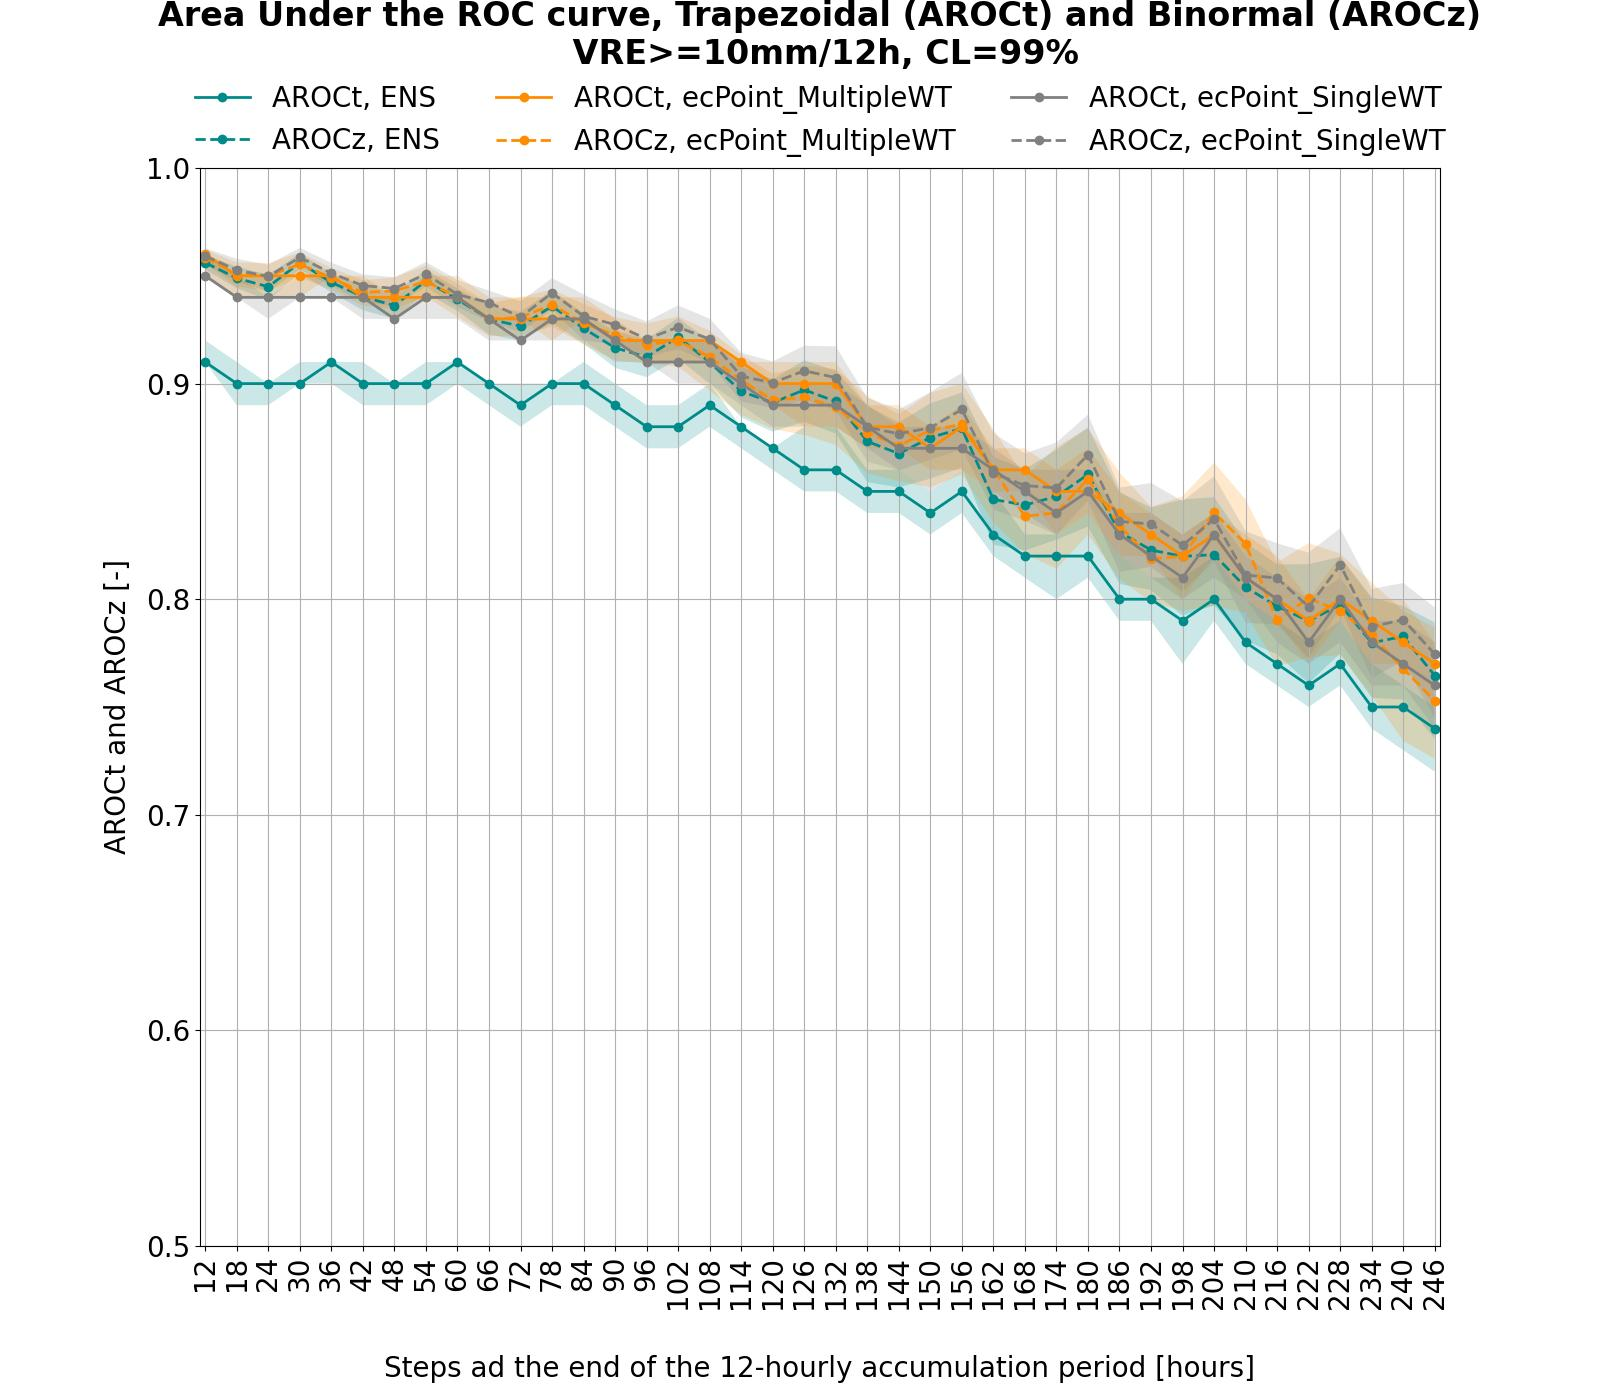
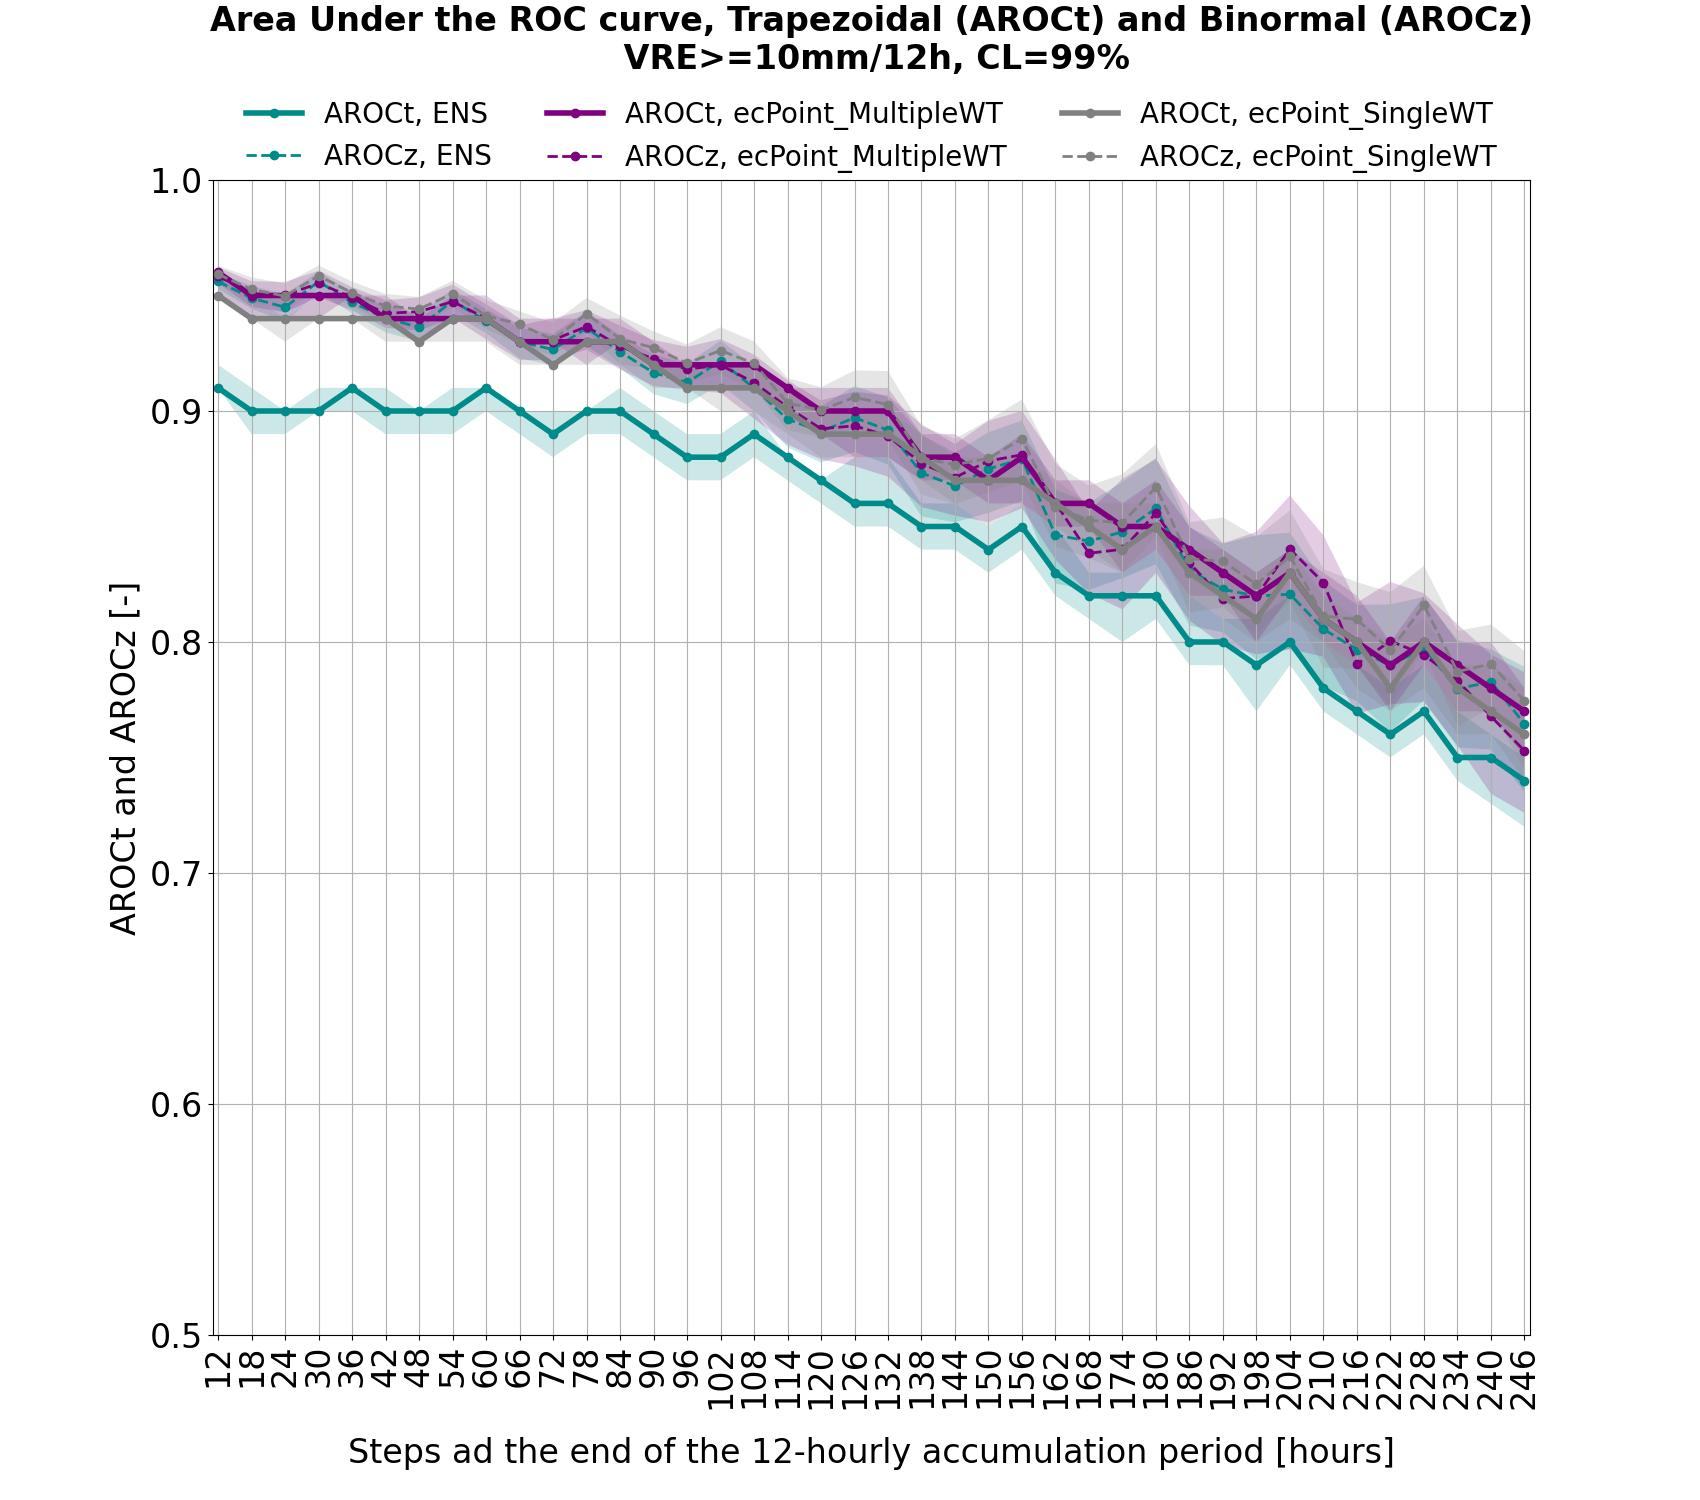
Improved the readibility of the AROC and BSrel plots.

diff --git a/Scripts/Processed/06_Plot_BSrel_CI.py b/Scripts/Processed/06_Plot_BSrel_CI.py
@@ -1,6 +1,7 @@
 import os
 import numpy as np
 import matplotlib.pyplot as plt
+from matplotlib.ticker import ScalarFormatter
 
 ########################################################################################
 # CODE DESCRIPTION
@@ -23,18 +24,22 @@ Acc = 12
 VRE_list = [0.2, 10, 25, 50]
 CL = 99
 SystemFC_list = ["ENS", "ecPoint_MultipleWT", "ecPoint_SingleWT"]
-Colour_SystemFC_list = ["darkcyan", "darkorange", "grey"]
+Colour_SystemFC_list = ["darkcyan", "purple", "grey"]
 Git_repo = "/ec/vol/ecpoint_dev/mofp/Papers_2_Write/ECMWF_TM_Verif_ecPoint_SingleWT"
 DirIN = "Data/Compute/03_BSrel_AROCt_AROCz_BS"
 DirOUT = "Data/Plot/06_BSrel_CI"
 ########################################################################################
 
+# Defining the way to plot the y-axis in the BSrel plots
+class ScalarFormatterClass(ScalarFormatter):
+   def _set_format(self):
+      self.format = "%1.1f"
 
 # Plotting the BSrel values for a specific vre
 for vre in VRE_list:
 
       # Setting the figure
-      fig, ax = plt.subplots(figsize=(16, 13))
+      fig, ax = plt.subplots(figsize=(17, 13))
       
       # Plotting the BSrel values for a specific forecasting system
       for indSystemFC in range(len(SystemFC_list)):
@@ -56,20 +61,23 @@ for vre in VRE_list:
             CI_upper = np.nanpercentile(bsrel_BS, 100 - (alpha/2), axis=1)
 
             # Plotting the BSrel values
-            ax.plot(StepF, bsrel_real, "o-", color=Colour_SystemFC, label=SystemFC, linewidth=2)
+            ax.plot(StepF, bsrel_real, "o-", color=Colour_SystemFC, label=SystemFC, linewidth=4)
             ax.fill_between(StepF, CI_lower, CI_upper, color=Colour_SystemFC, alpha=0.2, edgecolor="none")
 
       # Setting the BSrel plot metadata
       DiscStep = ((StepF[-1] - StepF[0]) / (len(StepF)-1))
       ax.set_title("Brier Score - Reliability Component (BSrel)\n VRE>=" + str(vre) + "mm/" + str(Acc) + "h, CL=" + str(CL) + "%\n ", fontsize=24, pad=20, weight="bold")
-      ax.set_xlabel("Steps ad the end of the " + str(Acc) + "-hourly accumulation period [hours]", fontsize=20, labelpad=20)
-      ax.set_ylabel("BSrel [-]", fontsize=20, labelpad=10)
+      ax.set_xlabel("Steps ad the end of the " + str(Acc) + "-hourly accumulation period [hours]", fontsize=24, labelpad=20)
+      ax.set_ylabel("BSrel [-]", fontsize=24, labelpad=10)
+      yScalarFormatter = ScalarFormatterClass(useMathText=True)
+      yScalarFormatter.set_powerlimits((0,0))
+      ax.yaxis.set_major_formatter(yScalarFormatter)
       ax.set_xlim([StepF[0]-1, StepF[-1]+1])
       ax.set_xticks(np.arange(StepF[0], (StepF[-1]+1), DiscStep))
-      ax.xaxis.set_tick_params(labelsize=20, rotation=90)
-      ax.yaxis.set_tick_params(labelsize=20)
+      ax.xaxis.set_tick_params(labelsize=24, rotation=90)
+      ax.yaxis.set_tick_params(labelsize=24)
       ax.legend(loc="upper center", bbox_to_anchor=(0.5, 1.06), ncol=3, fontsize=20, frameon=False)
-      ax.grid()
+      ax.grid(linewidth=0.5)
 
       # Saving the BSrel plot
       DirOUT_temp= Git_repo + "/" + DirOUT + "/" + f"{Acc:02d}" + "h"

diff --git a/Scripts/Processed/07_Plot_AROCt_AROCz_CI.py b/Scripts/Processed/07_Plot_AROCt_AROCz_CI.py
@@ -23,7 +23,7 @@ Acc = 12
 VRE_list = [0.2, 10, 25, 50]
 CL = 99
 SystemFC_list = ["ENS", "ecPoint_MultipleWT", "ecPoint_SingleWT"]
-Colour_SystemFC_list = ["darkcyan", "darkorange", "grey"]
+Colour_SystemFC_list = ["darkcyan", "purple", "gray"]
 Git_repo = "/ec/vol/ecpoint_dev/mofp/Papers_2_Write/ECMWF_TM_Verif_ecPoint_SingleWT"
 DirIN = "Data/Compute/03_BSrel_AROCt_AROCz_BS"
 DirOUT = "Data/Plot/07_AROCt_AROCz_CI"
@@ -34,7 +34,7 @@ DirOUT = "Data/Plot/07_AROCt_AROCz_CI"
 for vre in VRE_list:
 
       # Setting the figure
-      fig, ax = plt.subplots(figsize=(16, 14))
+      fig, ax = plt.subplots(figsize=(17, 15))
       
       # Plotting the AROCt and AROCz values for a specific forecasting system
       for indSystemFC in range(len(SystemFC_list)):
@@ -67,23 +67,23 @@ for vre in VRE_list:
             CIz_upper = np.nanpercentile(arocz_BS, 100 - (alpha/2), axis=1)
 
             # Plotting the AROCt and AROCz values with their CI
-            ax.plot(StepF, aroc, "o-", color=Colour_SystemFC, label="AROCt, " + SystemFC, linewidth=2)
+            ax.plot(StepF, aroc, "o-", color=Colour_SystemFC, label="AROCt, " + SystemFC, linewidth=4)
             ax.plot(StepF, arocz, "o--", color=Colour_SystemFC, label="AROCz, " + SystemFC, linewidth=2)
             ax.fill_between(StepF, CI_lower, CI_upper, color=Colour_SystemFC, alpha=0.2, edgecolor="none")
             ax.fill_between(StepF, CIz_lower, CIz_upper, color=Colour_SystemFC, alpha=0.2, edgecolor="none")
 
       # Completing the AROCt and AROCz plots
       DiscStep = ((StepF[-1] - StepF[0]) / (len(StepF)-1))
-      ax.set_title("Area Under the ROC curve, Trapezoidal (AROCt) and Binormal (AROCz)\n VRE>=" + str(vre) + "mm/" + str(Acc) + "h, CL=" + str(CL) + "%\n \n ", fontsize=24, pad=20, weight="bold")
-      ax.set_xlabel(" \nSteps ad the end of the " + str(Acc) + "-hourly accumulation period [hours]", fontsize=20, labelpad=10)
-      ax.set_ylabel("AROCt and AROCz [-]", fontsize=20, labelpad=10)
+      ax.set_title("Area Under the ROC curve, Trapezoidal (AROCt) and Binormal (AROCz)\n VRE>=" + str(vre) + "mm/" + str(Acc) + "h, CL=" + str(CL) + "%\n \n ", fontsize=24, pad=25, weight="bold")
+      ax.set_xlabel("Steps ad the end of the " + str(Acc) + "-hourly accumulation period [hours]", fontsize=24, labelpad=20)
+      ax.set_ylabel("AROCt and AROCz [-]", fontsize=24, labelpad=5)
       ax.set_xlim([StepF[0]-1, StepF[-1]+1])
       ax.set_ylim([0.5,1])
       ax.set_xticks(np.arange(StepF[0], (StepF[-1]+1), DiscStep))
       ax.set_yticks(np.arange(0.5,1.01, 0.1))
-      ax.xaxis.set_tick_params(labelsize=20, rotation=90)
-      ax.yaxis.set_tick_params(labelsize=20)
-      ax.legend(loc="upper center", bbox_to_anchor=(0.5, 1.1), ncol=3, fontsize=20, frameon=False)
+      ax.xaxis.set_tick_params(labelsize=24, rotation=90)
+      ax.yaxis.set_tick_params(labelsize=24)
+      ax.legend(loc="upper center", bbox_to_anchor=(0.5, 1.09), ncol=3, fontsize=20, frameon=False)
       ax.grid()
 
       # Saving the AROCt and AROCz plots
